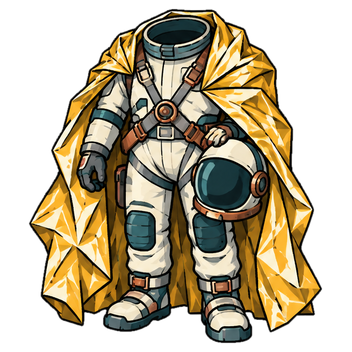
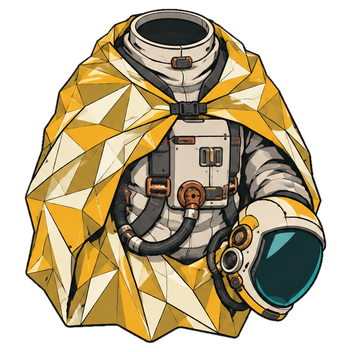
Add 10 more item pictures from mixed sheets
needle_rifle and railgun redone without projectiles, 6 missing recipe results,
and the exo, survival and life support suits as torsos plus a new magma hound.

Claude-Session: https://claude.ai/code/session_01XFXXMkAzeq5jGJqFk9hiAx

diff --git a/docs/item-art.md b/docs/item-art.md
@@ -125,17 +125,17 @@ Generated by `npm run catalog` from `data/item-art.json` and `data/items/`. Do n
 | Mirror Shield | `items/mirror_shield.png` | epic | 2×2 `##/##` | Round shield from a telescope mirror, a ringed planet reflected. Accent: cream. | Filling the square box: a round shield made from a telescope mirror, heavy riveted rim, its flat face showing a reflected ringed planet as a simple cream shape. No shine. |
 | Bulwark Generator | `items/bulwark_generator.png` | legendary | 3×2 `###/###` | Big generator on landing legs with shield fins and a force dome. Accent: mustard. | Filling the wide box: a big boxy generator on four short landing legs, two angled shield fins on top like ears, a flat teal half-dome of force arching over it with one crack, mustard and black hazard stripes along the base, heavy cables on the sides. |
 | Reinforced Bulkhead | `items/reinforced_bulkhead.png` | crafted 1 | 3×1 `###` | Hull plate doubled with scrap, cross braces and big bolts. Accent: copper. | Along the long box: a thick slab of ship hull like a short bulkhead door, scrap plates welded in an X brace across it, big copper bolts, the round porthole now riveted shut. |
-| Exo Suit | `items/exo_suit.png` | crafted 1 | 1×3 `#/#/#` | Space suit inside an iron frame, big visor helmet on top. Accent: mustard. | Upright through the tall box: the limp space suit now standing in a riveted iron exoskeleton frame, pistons at knees and elbows, the round mustard-tinted visor helmet on top. |
+| Exo Suit | `items/exo_suit.png` | crafted 1 | 1×3 `#/#/#` | Exo frame torso with iron shoulder brace and spine rail. Accent: mustard. | Upright through the tall box: only the upper body of a space suit, no legs, strapped into exo parts: a riveted iron shoulder brace, a spine rail, a piston at the elbow and an arm brace hanging below. |
 | Hazmat Suit | `items/hazmat_suit.png` | crafted 1 | 2×2 `##/##` | Bulky space suit with lead-band collar and trefoil patch. Accent: mustard. | Filling the square box: a bulky puffed space suit, the overlapping grey lead bands of the vest as a collar and chest, a mustard radiation trefoil patch, a round helmet hanging at its side. |
 | Shield Capacitor | `items/shield_capacitor.png` | crafted 1 | 1×2 `#/#` | Shield battery with a star power cell clipped on. Accent: teal. | Upright: the fat shield battery with its hexagon dome top and charge bars, a star-window power cell clipped to its side, all three bars filled teal. |
-| Survival Suit | `items/survival_suit.png` | crafted 1 | 2×2 `##/##` | Space suit wrapped in a crinkled mustard foil blanket. Accent: mustard. | Filling the square box: the empty space suit wrapped in the crinkled foil rescue blanket like a cape, hard mustard and cream foil facets, helmet hanging at its side. |
+| Survival Suit | `items/survival_suit.png` | crafted 1 | 2×2 `##/##` | Suit torso wrapped in a crinkled mustard foil blanket. Accent: mustard. | Filling the square box: only the upper body of a space suit, no legs, wrapped in the crinkled foil rescue blanket like a cape, hard mustard and cream foil facets, the helmet hanging at its side. |
 | Spiked Bulkhead | `items/spiked_bulkhead.png` | crafted 1 | 2×2 `##/##` | Hull plate studded with reactive charges and spikes on the rim. Accent: coral red. | Filling the square box: a heavy hull-plate panel, its middle a grid of round coral red reactive charges, short sharp spikes along the rim, rivets at the corners. |
 | Thorn Plate | `items/thorn_plate.png` | crafted 1 | 2×2 `##/##` | Hull-plate chest armour wrapped in Murk thorn vines. Accent: sage. | Filling the square box: a curved hull-plate chest piece with rivets, wrapped in thick black Murk thorn vines with hooked thorns, a few sage leaves curling at the edges. |
 | Glacier Mail | `items/glacier_mail.png` | crafted 1 | 2×2 `##/##` | Yak-fur coat armoured with frost gem plates. Accent: teal. | Filling the square box: the shaggy Rime yak-fur coat, its chest covered in six-sided teal frost gem plates like scales, ice spikes on the shoulders. |
 | Aegis Projector | `items/aegis_projector.png` | crafted 1 | 2×2 `##/##` | Satellite dish shield powered by a star cell, hexagon of force. Accent: teal. | Filling the square box: the old satellite dish seen from the front, the star-window power cell strapped to its arm, a flat teal hexagon of force hovering in front of the bowl. |
 | Ghost Shroud | `items/ghost_shroud.png` | crafted 1 | 2×2 `##/#.` | Phase cloak hood with a holo projector puck, dashes below. Accent: cream. | The empty starry hood fills the top left cell, the cloak spreads across the top right and down the left, breaking into rows of cream dashes; a small holo puck hangs at the collar; lower right cell empty. |
 | Citadel Plating | `items/citadel_plating.png` | crafted 2 | 3×2 `###/###` | Wall of riveted bulkhead plates with a dish on top. Accent: copper. | Filling the wide box: a short wall of overlapping riveted bulkhead plates with X braces, the old satellite dish mounted on top as a shield turret, copper bolts. |
-| Life Support Suit | `items/life_support_suit.png` | crafted 2 | 2×3 `##/##/#.` | Exo suit with a tube backpack and a heartbeat screen. Accent: sage. | The suit fills the left column and top right: the iron-framed exo suit, a medkit backpack with sage tubes on the top right cell, a heartbeat screen on the chest; lower right cell empty. |
+| Life Support Suit | `items/life_support_suit.png` | crafted 2 | 2×3 `##/##/#.` | Exo torso with a tube backpack and a heartbeat screen. Accent: sage. | Only the upper body of a suit in a riveted exo frame fills the top left; a medkit backpack with sage tubes fills the top right cell; a hose runs down the lower left cell; a heartbeat screen on the chest; lower right cell empty. |
 | Aegis Fortress | `items/aegis_fortress.png` | crafted 2 | 2×3 `##/##/##` | Tiny fortress of shield plates with a dish tower and force dome. Accent: teal. | Upright through the tall box: a small stacked fortress of shield plates, a satellite dish tower on top, a flat teal force dome arching over it with one crack. |
 | Dyson Bastion | `items/dyson_bastion.png` | crafted 3 | 3×3 `###/###/###` | Fortress wall of curved panels around a tiny star. Accent: mustard. | Filling the square box: a ring fortress of curved armour panels with mustard panel grids on the inside, a tiny star in its middle as a flat mustard shape, a dish turret on top. |
 
@@ -251,7 +251,7 @@ Generated by `npm run catalog` from `data/item-art.json` and `data/items/`. Do n
 | Jelly Swarm | `items/jelly_swarm.png` | crafted 1 | 2×2 `##/##` | One big nebula jellyfish with a vacuum slug shell on top. Accent: sage. | Filling the square box: one big drifting jellyfish, its see-through bell topped by a small dome shell like the hull slug's, a sage nebula swirl inside, long trailing tentacles. One single animal. |
 | Gunship Drone | `items/gunship_drone.png` | crafted 1 | 2×2 `##/##` | Sentry drone with a laser pistol slung under its belly. Accent: coral red. | Filling the square box: the hovering sentry drone with two rotor arms and one lens eye, a chunky laser pistol with teal lens rings slung under its belly. |
 | Caretaker Bot | `items/caretaker_bot.png` | crafted 1 | 2×1 `##` | Repair bot with a filter mask face and a towel arm. Accent: cream. | Lying across the box: a small round robot with a sage air-filter mask as its face, one wrench arm and one arm holding a folded towel, a kind tilt of the head. |
-| Magma Hound | `items/magma_hound.png` | crafted 1 | 2×2 `##/##` | Comet fox grown big with magma newt basalt skin. Accent: coral red. | Filling the square box: a lean long-legged hound mid-stride, cracked black basalt skin with coral red heat in the cracks, antenna-dish ears, a long tail of drifting ash. One single animal. |
+| Magma Hound | `items/magma_hound.png` | crafted 1 | 2×2 `##/##` | Comet fox grown big with magma newt basalt skin. Accent: coral red. | Filling the square box: a lean long-legged hound mid-stride, cracked black basalt skin with coral red heat in the cracks, short swept-back basalt horns and pointed ears, a long tail of drifting ash. One single animal. |
 | Snow Lynx | `items/snow_lynx.png` | crafted 1 | 2×2 `##/##` | Shadow lynx with frosted fur and ice crystal crest. Accent: teal. | Filling the square box: a crouching lynx with frosted white fur, a crest of teal ice crystals along its spine like the ice ferret, icy ear tufts, pale eyes. One single animal. |
 | Star Hatchling | `items/star_hatchling.png` | crafted 1 | 2×1 `##` | Hatchling bursting from a star-speckled egg in royal jelly. Accent: mustard. | Lying across the box: a small round hatchling breaking out of the cream constellation egg, mustard royal jelly dripping, its wings two flat star shapes, stardust specks around. One single animal. |
 | Glacier Drake | `items/glacier_drake.png` | crafted 2 | 2×2 `##/##` | Long drake with ice-plated back and ferret crystal crest. Accent: teal. | Filling the square box: a long coiled drake with teal comet-ice plates down its back, a crest of ice crystals, frost breath as a small flat cloud. One single animal. |
